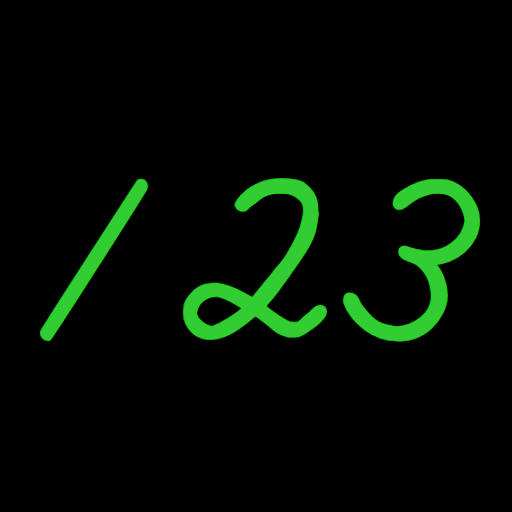
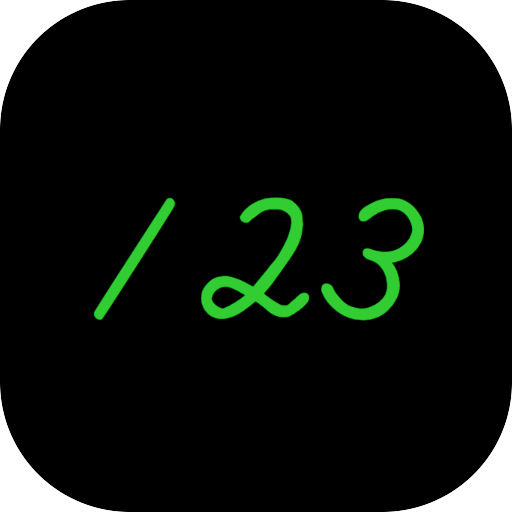
change: アイコン差し替え、PWA 対応

diff --git a/src/index.html b/src/index.html
@@ -3,18 +3,62 @@
 <head>
     <meta charset="UTF-8">
     <title>Flash Anzan</title>
-    <meta name="viewport" content="width=device-width,initial-scale=1.0,minimum-scale=1.0,user-scalable=no">
+    <meta name="viewport" content="width=device-width,initial-scale=1.0,minimum-scale=1.0">
     <meta name="description" content="フラッシュ暗算">
     <meta name="theme-color" content="limegreen">
-    <link rel="apple-touch-icon" sizes="180x180" href="apple-touch-icon.png">
-    <link rel="shortcut icon" href="image/favicon.ico">
+    <!--icons-->
+    <meta name="msapplication-square70x70logo" content="favicons/site-tile-70x70.png">
+    <meta name="msapplication-square150x150logo" content="favicons/site-tile-150x150.png">
+    <meta name="msapplication-wide310x150logo" content="favicons/site-tile-310x150.png">
+    <meta name="msapplication-square310x310logo" content="favicons/site-tile-310x310.png">
+    <meta name="msapplication-TileColor" content="#0078d7">
+    <link rel="shortcut icon" type="image/vnd.microsoft.icon" href="favicons/favicon.ico">
+    <link rel="icon" type="image/vnd.microsoft.icon" href="favicons/favicon.ico">
+    <link rel="apple-touch-icon" sizes="57x57" href="favicons/apple-touch-icon-57x57.png">
+    <link rel="apple-touch-icon" sizes="60x60" href="favicons/apple-touch-icon-60x60.png">
+    <link rel="apple-touch-icon" sizes="72x72" href="favicons/apple-touch-icon-72x72.png">
+    <link rel="apple-touch-icon" sizes="76x76" href="favicons/apple-touch-icon-76x76.png">
+    <link rel="apple-touch-icon" sizes="114x114" href="favicons/apple-touch-icon-114x114.png">
+    <link rel="apple-touch-icon" sizes="120x120" href="favicons/apple-touch-icon-120x120.png">
+    <link rel="apple-touch-icon" sizes="144x144" href="favicons/apple-touch-icon-144x144.png">
+    <link rel="apple-touch-icon" sizes="152x152" href="favicons/apple-touch-icon-152x152.png">
+    <link rel="apple-touch-icon" sizes="180x180" href="favicons/apple-touch-icon-180x180.png">
+    <link rel="icon" type="image/png" sizes="36x36" href="favicons/android-chrome-36x36.png">
+    <link rel="icon" type="image/png" sizes="48x48" href="favicons/android-chrome-48x48.png">
+    <link rel="icon" type="image/png" sizes="72x72" href="favicons/android-chrome-72x72.png">
+    <link rel="icon" type="image/png" sizes="96x96" href="favicons/android-chrome-96x96.png">
+    <link rel="icon" type="image/png" sizes="128x128" href="favicons/android-chrome-128x128.png">
+    <link rel="icon" type="image/png" sizes="144x144" href="favicons/android-chrome-144x144.png">
+    <link rel="icon" type="image/png" sizes="152x152" href="favicons/android-chrome-152x152.png">
+    <link rel="icon" type="image/png" sizes="192x192" href="favicons/android-chrome-192x192.png">
+    <link rel="icon" type="image/png" sizes="256x256" href="favicons/android-chrome-256x256.png">
+    <link rel="icon" type="image/png" sizes="384x384" href="favicons/android-chrome-384x384.png">
+    <link rel="icon" type="image/png" sizes="512x512" href="favicons/android-chrome-512x512.png">
+    <link rel="icon" type="image/png" sizes="36x36" href="favicons/icon-36x36.png">
+    <link rel="icon" type="image/png" sizes="48x48" href="favicons/icon-48x48.png">
+    <link rel="icon" type="image/png" sizes="72x72" href="favicons/icon-72x72.png">
+    <link rel="icon" type="image/png" sizes="96x96" href="favicons/icon-96x96.png">
+    <link rel="icon" type="image/png" sizes="128x128" href="favicons/icon-128x128.png">
+    <link rel="icon" type="image/png" sizes="144x144" href="favicons/icon-144x144.png">
+    <link rel="icon" type="image/png" sizes="152x152" href="favicons/icon-152x152.png">
+    <link rel="icon" type="image/png" sizes="160x160" href="favicons/icon-160x160.png">
+    <link rel="icon" type="image/png" sizes="192x192" href="favicons/icon-192x192.png">
+    <link rel="icon" type="image/png" sizes="196x196" href="favicons/icon-196x196.png">
+    <link rel="icon" type="image/png" sizes="256x256" href="favicons/icon-256x256.png">
+    <link rel="icon" type="image/png" sizes="384x384" href="favicons/icon-384x384.png">
+    <link rel="icon" type="image/png" sizes="512x512" href="favicons/icon-512x512.png">
+    <link rel="icon" type="image/png" sizes="16x16" href="favicons/icon-16x16.png">
+    <link rel="icon" type="image/png" sizes="24x24" href="favicons/icon-24x24.png">
+    <link rel="icon" type="image/png" sizes="32x32" href="favicons/icon-32x32.png">
+    <link rel="manifest" href="favicons/manifest.json">
+    <!--css-->
     <link href="assets/bootstrap@5.0.0-beta1.css" rel="stylesheet">
     <link rel="stylesheet" href="https://cdn.jsdelivr.net/npm/bootstrap-icons@1.4.1/font/bootstrap-icons.css">
     <link rel="stylesheet" href="assets/index.css?ver=0.12.0">
+    <!--js-->
     <script src="assets/bootstrap@5.0.0-beta1.bundle.min.js"></script>
     <script src="assets/howler_2_2_1.min.js"></script>
     <script type="text/javascript" src="lib/shortcut.js"></script>
-    <link rel="manifest" href="manifest.webmanifest">
     <script>
         if ('serviceWorker' in navigator) {
             window.addEventListener('load', function () {
@@ -82,21 +126,21 @@
         <ul class="nav nav-pills mb-2" id="pills-tab" role="tablist">
             <li class="nav-item" role="presentation">
                 <a class="nav-link active" id="pills-addition-tab" data-bs-toggle="pill" href="#addition-mode-config"
-                   role="tab" aria-controls="pills-addition" aria-selected="true"
+                   role="tab" aria-selected="true"
                    onclick="changeMode('addition');">
                     <i class="bi bi-plus"></i><span class="ps-2">たし算</span>
                 </a>
             </li>
             <li class="nav-item" role="presentation">
                 <a class="nav-link disabled" id="pills-subtraction-tab" data-bs-toggle="pill" href="" role="tab"
-                   aria-controls="pills-subtraction" aria-selected="false" onclick="changeMode('subtraction');">
+                   aria-selected="false" onclick="changeMode('subtraction');">
                     <i class="bi bi-dash"></i><span class="ps-2">ひき算</span>
                 </a>
             </li>
             <li class="nav-item" role="presentation">
                 <a class="nav-link" id="pills-multiplication-tab" data-bs-toggle="pill"
-                   href="#multiplication-mode-config" role="tab" aria-controls="pills-multiplication"
-                   aria-selected="false" onclick="changeMode('multiplication');">
+                   href="#multiplication-mode-config" role="tab" aria-selected="false"
+                   onclick="changeMode('multiplication');">
                     <i class="bi bi-x"></i><span class="ps-2">かけ算</span>
                 </a>
             </li>
